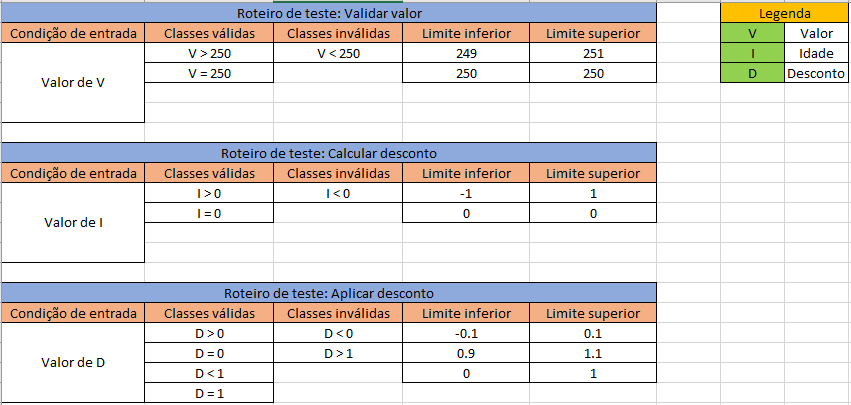
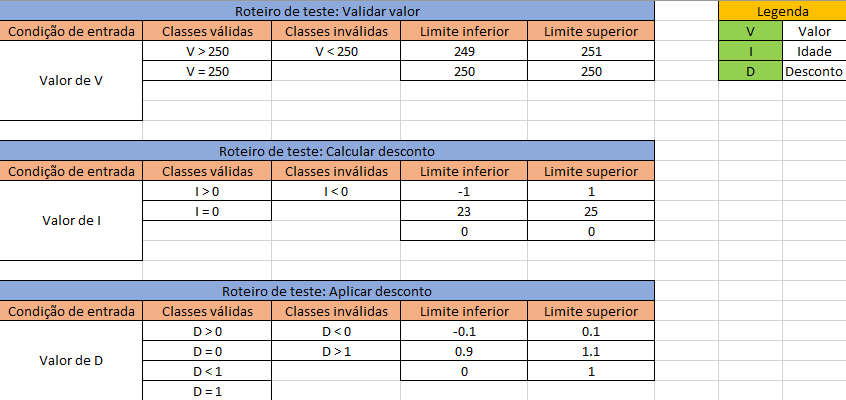
Conserta as classes

diff --git a/desconto/test.py b/desconto/test.py
@@ -1,1 +1,80 @@
 import unittest
+from modelo import Desconto
+from unittest.mock import Mock
+class DescontoTeste (unittest.TestCase):
+    def test_validar_valor_menor_250(self):
+        valor = 249
+        idade = 12
+        d = Desconto()
+        value = d.aplicarDesconto(valor, idade)
+        self.assertFalse(value)
+
+    def test_validar_valor_igual_250(self):
+        valor = 250
+        idade = 12
+        d = Desconto()
+        value = d.aplicarDesconto(valor, idade)
+        self.assertTrue(value)
+
+    def test_validar_valor_maior_250(self):
+        valor = 251
+        idade = 12
+        d = Desconto()
+        value = d.aplicarDesconto(valor, idade)
+        self.assertTrue(value)
+
+    def test_calcular_idade_negativa(self):
+        valor = 250
+        idade = -1
+        d = Desconto()
+        value = d.aplicarDesconto(valor, idade)
+        self.assertFalse(value)
+
+    def test_calcular_idade_igual_0(self):
+        valor = 250
+        idade = 0
+        d = Desconto()
+        value = d.aplicarDesconto(valor, idade)
+        self.assertTrue(value)
+
+    def test_calcular_idade_igual_1(self):
+        valor = 250
+        idade = 1
+        d = Desconto()
+        value = d.aplicarDesconto(valor, idade)
+        self.assertTrue(value)
+
+    def test_calcular_idade_igual_23(self):
+        valor = 250
+        idade = 23
+        d = Desconto()
+        value = d.aplicarDesconto(valor, idade)
+        self.assertTrue(value)
+
+    def test_calcular_idade_igual_24(self):
+        valor = 250
+        idade = 24
+        d = Desconto()
+        value = d.aplicarDesconto(valor, idade)
+        self.assertTrue(value)
+
+    def test_calcular_idade_igual_25(self):
+        valor = 250
+        idade = 25
+        d = Desconto()
+        value = d.aplicarDesconto(valor, idade)
+        self.assertFalse(value)
+
+        ## self.servico.isEmPosseDaLoja = Mock(return_value = True)
+
+    def test_calcular_desconto_negativo(self):
+        valor = 250
+        idade = 25
+        d = Desconto()
+        d._calculaDesconto = Mock()
+        d._calculaDesconto = Mock(return_value=-0.1)
+        value = d.aplicarDesconto(valor, idade)
+        self.assertFalse(value)
+
+if __name__ == '__main__':
+    unittest.main()

diff --git a/desconto/modelo.py b/desconto/modelo.py
@@ -1,26 +1,38 @@
 class Desconto:
-    def __init__(self, valor, idade):
-        self.valor = valor
-        self.idade = idade
-        self.desconto = 0
+    def __init__(self):
+        self._valor = 0
+        self._idade = 0
+        self._desconto = 0
 
-    def validarValor(self):
-        if (self.valor < 250.00):
+    def _validarValor(self, valor):
+        if (valor < 250.00):
             return False
         
         return True
 
-    def calculaDesconto(self):
-        if self.idade <= 12:
-            self.desconto = 0.15
-        elif self.idade <= 18:
-            self.desconto = 0.12
-        elif self.idade <= 21:
-            self.desconto = 0.05
-        elif self.idade <= 24:
-            self.desconto = 0.03
+    def _calculaDesconto(self, idade):
+        if idade >= 0:
+            if idade <= 12:
+                self._desconto = 0.15
+            elif idade <= 18:
+                self._desconto = 0.12
+            elif idade <= 21:
+                self._desconto = 0.05
+            elif idade <= 24:
+                self._desconto = 0.03
 
-        return self.desconto
+        return self._desconto
 
-    def aplicarDesconto(self):
-        return self.valor * (calculaDesconto())
+    def _definirDesconto(self, valor, idade):
+        return valor * (1 - self._calculaDesconto(idade))
+
+
+    def aplicarDesconto(self, valor, idade):
+        if self._validarValor(valor):
+            if self._calculaDesconto(idade):
+                valor_com_desconto = self._definirDesconto(valor, idade)
+                return valor_com_desconto
+            
+            return False
+            
+        return False
